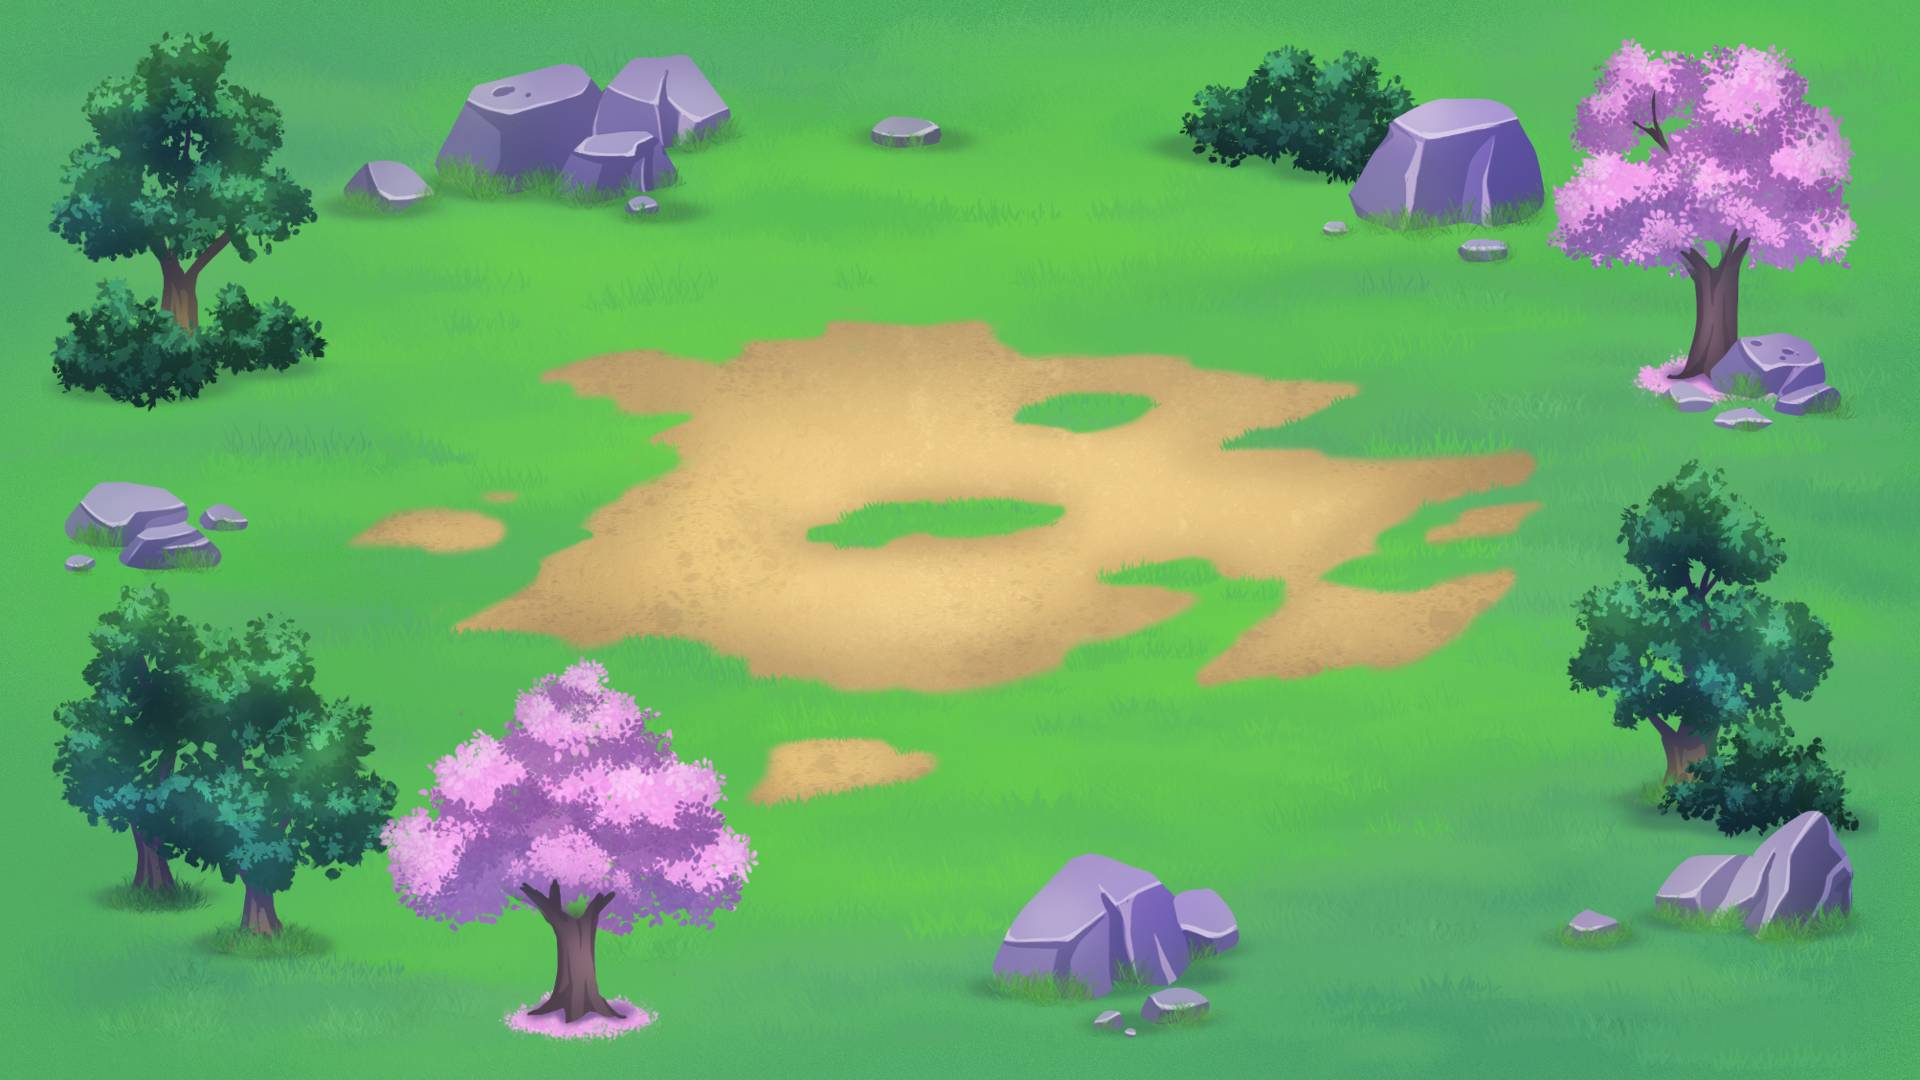
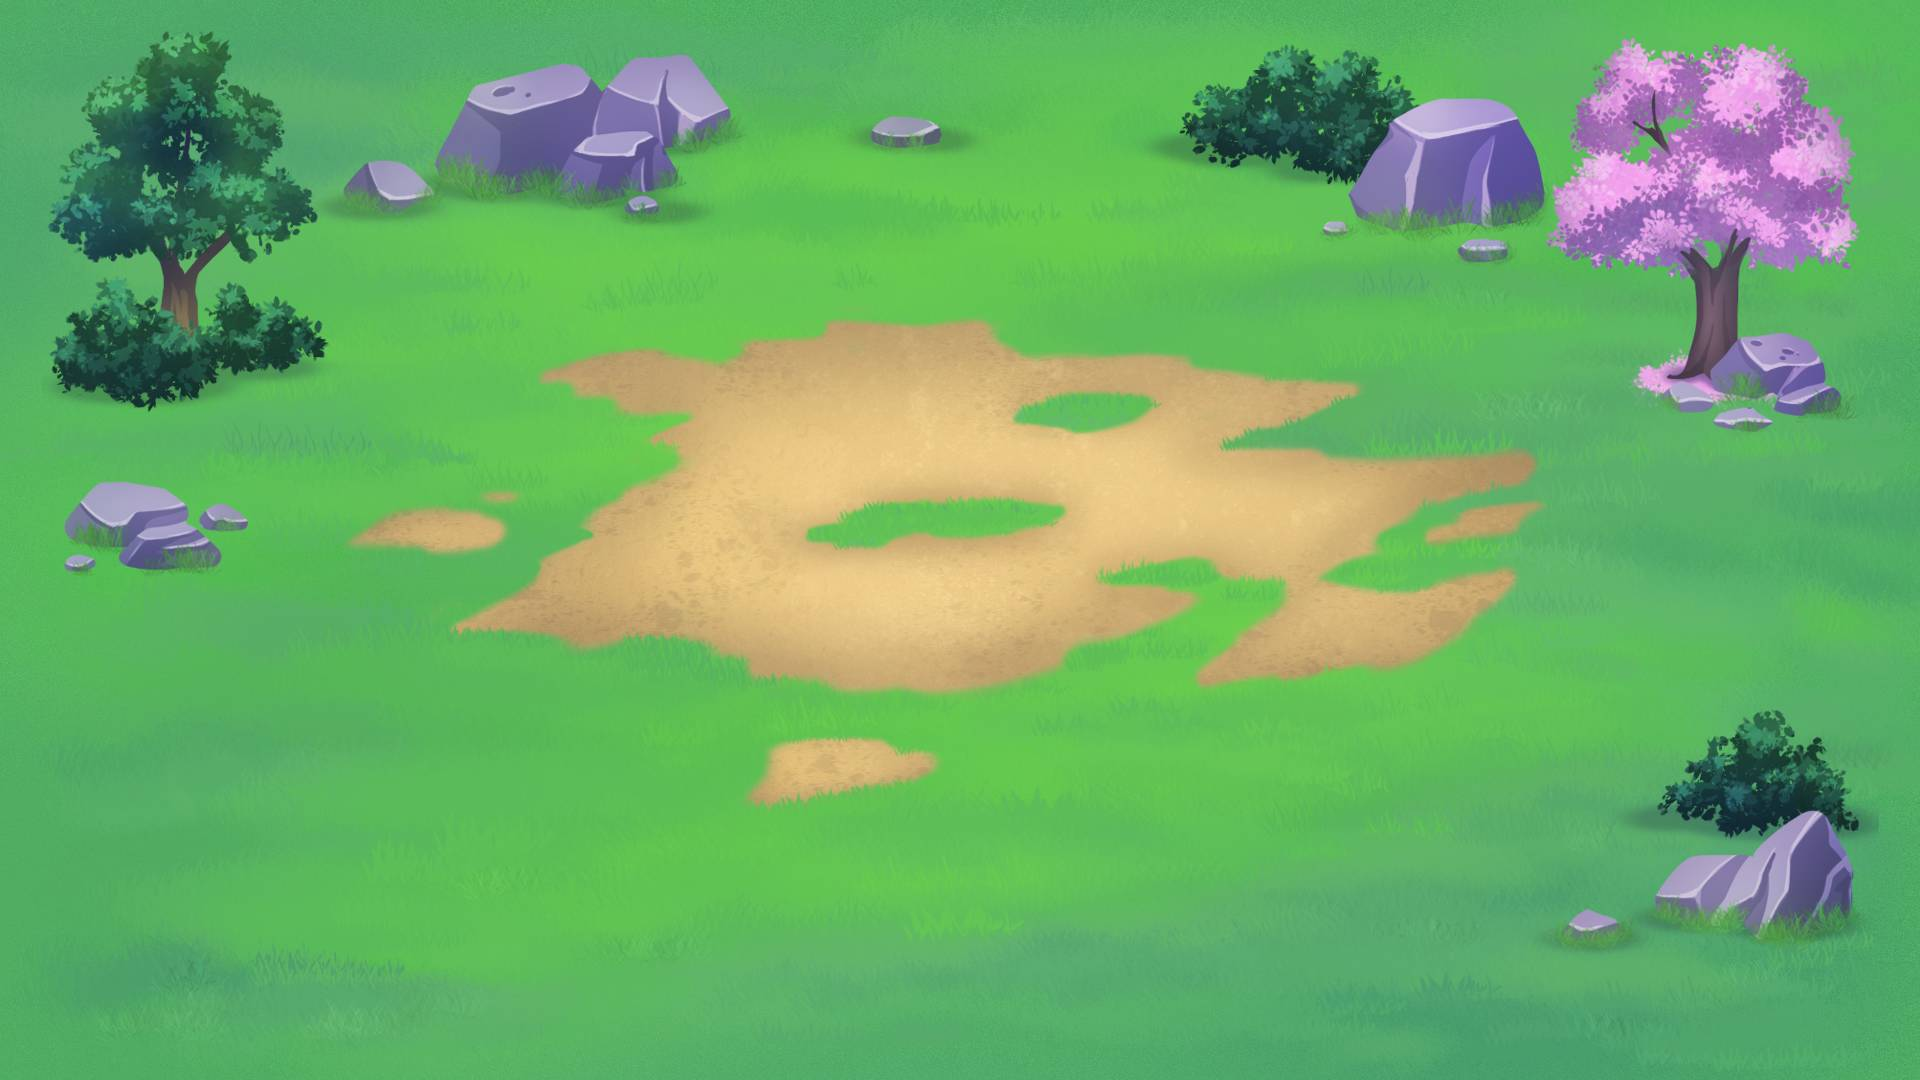
insert trees in land page

Changed region(s): [[0.0312, 0.55, 0.4062, 0.9778], [0.8125, 0.4278, 0.9688, 0.7639], [0.5, 0.7944, 0.6562, 0.9778]]

diff --git a/src/pages/Main/Main.tsx b/src/pages/Main/Main.tsx
@@ -56,7 +56,7 @@ const Main = ({ showAccount, setShowAccount }: MainProps) => {
   })
 
   useEffect(() => {
-    if(global.wall===0){
+    if (global.wall === 0) {
       history.back();
     }
     const handleWindowResize = () => {
@@ -92,7 +92,7 @@ const Main = ({ showAccount, setShowAccount }: MainProps) => {
     { counting: 0, timer: 0, },
     { counting: 0, timer: 0, },
   ])
-  
+
   const [birds, setBirds] = useState([
     { item: 0, timer: 0 },
     { item: 0, timer: 0 },
@@ -135,20 +135,20 @@ const Main = ({ showAccount, setShowAccount }: MainProps) => {
   }, [selectedIndex])
   const coolDownStatus = (cooldown: any) => {
     dispatch(
-      checkCooldown(address, `diamond${selectedIndex + 1}`, (res: any) => {       
+      checkCooldown(address, `diamond${selectedIndex + 1}`, (res: any) => {
         let cooldownSec = res.data
         const _items = [...items]
         _items[selectedIndex].timer = res.data
         _items[selectedIndex].counting = 1
         setItems(_items)
-        if( cooldownSec === 999999){
+        if (cooldownSec === 999999) {
           _items[selectedIndex].timer = 0
-        } 
-        else if(cooldownSec<=0){
+        }
+        else if (cooldownSec <= 0) {
           _items[selectedIndex].timer = 0
           setBtnTitle("CLAIM")
         }
-        else{
+        else {
           _items[selectedIndex].timer = cooldownSec
         }
       }),
@@ -168,7 +168,7 @@ const Main = ({ showAccount, setShowAccount }: MainProps) => {
       }),
     )
   }
-  
+
   const onRockClaim = () => {
     if (items[selectedIndex].counting !== 0 && items[selectedIndex].timer === 0) {
       setOpenRock(false)
@@ -183,7 +183,7 @@ const Main = ({ showAccount, setShowAccount }: MainProps) => {
         const _items = [...items]
         _items[index].counting = 0
         _items[index].timer = 0
-        if(typeof res.data.resource === 'number') setResource(res.data.resource)
+        if (typeof res.data.resource === 'number') setResource(res.data.resource)
         setItems(_items)
         setBtnTitle("START")
       }),
@@ -205,12 +205,12 @@ const Main = ({ showAccount, setShowAccount }: MainProps) => {
   }
 
   const onExchange = (swapAmount: number) => {
-    dispatch(swapResources(address, swapAmount, (res: any) => {}))
+    dispatch(swapResources(address, swapAmount, (res: any) => { }))
     setOpenSwap(false)
   }
 
   const onExchangeEgg = (swapAmount: number) => {
-    dispatch(swapEggs(address, swapAmount, (res: any) => {}))
+    dispatch(swapEggs(address, swapAmount, (res: any) => { }))
     setOpenSwap(false)
   }
 
@@ -218,7 +218,7 @@ const Main = ({ showAccount, setShowAccount }: MainProps) => {
     dispatch(
       upgradeWall(address, (res: any) => {
         setWallLevelState(res.wall)
-        global.wall=res.wall
+        global.wall = res.wall
         setSiren(res.Siren)
       }),
     )
@@ -268,7 +268,7 @@ const Main = ({ showAccount, setShowAccount }: MainProps) => {
       // md: 800,
       md: 665,
     },
-    
+
     border: 'none',
     outline: 'none',
     // maxHeight: '500px',
@@ -614,7 +614,7 @@ const Main = ({ showAccount, setShowAccount }: MainProps) => {
         >
           <div
             className="wall-wallet"
-            // style={{ backgroundImage:"url('/images/border"+(wallLevelState)+".png')" }}
+          // style={{ backgroundImage:"url('/images/border"+(wallLevelState)+".png')" }}
           >
             <img
               src={'assets/images/border' + wallLevelState + '.png'}
@@ -649,7 +649,7 @@ const Main = ({ showAccount, setShowAccount }: MainProps) => {
                 }}
                 onClick={(e) => setOpenSwap(true)}
               >
-                <img alt="" src="/images/storage.png" style={{transform: 'translate(-50%, -50%)'}} className={styles.item}/>
+                <img alt="" src="/images/storage.png" style={{ transform: 'translate(-50%, -50%)' }} className={styles.item} />
               </Box>
               <Box
                 sx={{
@@ -660,7 +660,7 @@ const Main = ({ showAccount, setShowAccount }: MainProps) => {
                 }}
                 onClick={(e) => setOpenDeposit(true)}
               >
-                <img alt="" src="/images/home.png" style={{transform: 'translate(-50%, -50%)', maxWidth: '250px'}} className={styles.item}/>
+                <img alt="" src="/images/home.png" style={{ transform: 'translate(-50%, -50%)', maxWidth: '250px' }} className={styles.item} />
               </Box>
               <Box
                 sx={{
@@ -679,32 +679,32 @@ const Main = ({ showAccount, setShowAccount }: MainProps) => {
                 <img
                   alt=""
                   className={styles.item}
-                  style={{transform: 'translate(0, -100%)'}}
+                  style={{ transform: 'translate(-5%, -115%)' }}
                   width={'80%'}
                   src={`/images/bird_place.png`}
                 />
               </Box>
               <Box
                 sx={{
-                  zIndex: 20,                  
+                  zIndex: 20,
                   transform: 'translate(100%, -180px)',
                   height: 'fit-content',
                   cursor: 'pointer',
                 }}
                 onClick={(e) => setOpenMining(true)}
               >
-                <img alt="" src="/images/mining.png"  style={{transform: 'translate(-50%, -50%)'}} className={styles.item}/>
+                <img alt="" src="/images/mining.png" style={{ transform: 'translate(-50%, -50%)' }} className={styles.item} />
               </Box>
             </Box>
             <Box
               sx={{
-                position:'absolute',
+                position: 'absolute',
                 display: 'flex',
                 width: '30%',
-                margin:'auto',
-                top:'25%',
-                left:'50%',
-                transform:"translateX(-50%)"
+                margin: 'auto',
+                top: '25%',
+                left: '50%',
+                transform: "translateX(-50%)"
               }}
             >
               {items.map((item, index) => (
@@ -727,7 +727,7 @@ const Main = ({ showAccount, setShowAccount }: MainProps) => {
                   <Box
                     sx={{
                       zIndex: 10,
-                      transform:index===1?'translateY(-30%) ':index===2?'translateY(30%) ':''
+                      transform: index === 1 ? 'translateY(-30%) ' : index === 2 ? 'translateY(30%) ' : ''
                     }}
                   >
                     <img
@@ -744,6 +744,59 @@ const Main = ({ showAccount, setShowAccount }: MainProps) => {
 
             {/* </div> */}
           </div>
+        </Box>
+
+        <Box
+          sx={{
+            zIndex: 20,
+            height: 'fit-content',
+            width: 'fit-content',
+          }}
+        >
+          <img
+            alt=""
+            style={{position: 'absolute', left: '2%', top: '55%'}}
+            src={`/images/greentree1.png`}
+          />
+        </Box>
+        <Box
+          sx={{
+            zIndex: 20,
+            height: 'fit-content',
+            width: 'fit-content',
+          }}
+        >
+          <img
+            alt=""
+            style={{position: 'absolute', left: '15%', top: '65%', width: '280px', height: '300px' }}
+            src={`/images/pinktree.png`}
+          />
+        </Box>
+        <Box
+          sx={{
+            zIndex: 20,
+            height: 'fit-content',
+            width: 'fit-content',
+          }}
+        >
+          <img
+            alt=""
+            style={{position: 'absolute', right: '5%', top: '55%',}}
+            src={`/images/greentree2.png`}
+          />
+        </Box>
+        <Box
+          sx={{
+            zIndex: 20,
+            height: 'fit-content',
+            width: 'fit-content',
+          }}
+        >
+          <img
+            alt=""
+            style={{position: 'absolute', left: '50%', bottom: '-5%',}}
+            src={`/images/rock.png`}
+          />
         </Box>
       </Box>
 

diff --git a/src/scenes/battle.scene.ts b/src/scenes/battle.scene.ts
@@ -737,7 +737,7 @@ export default class Battle extends Phaser.Scene {
     
     let critical = false
     const r = Math.random()
-    if (global.critical > r * 100) {
+    if (global.critical > r * 100 && this.attackType === 1) {
       damage *= 1.5
       damage = Math.floor(damage)
       critical = true

diff --git a/src/components/Header/RockModal.tsx b/src/components/Header/RockModal.tsx
@@ -35,7 +35,7 @@ const RockModal = ({
     top: '50%',
     left: '50%',
     transform: 'translate(-50%, -50%)',
-    width: '450px',
+    width: '500px',
     height: '580px',
     background: "url(/assets/images/set.png)",
     backgroundSize: '100% 100%',

diff --git a/src/index.css b/src/index.css
@@ -42,9 +42,9 @@ code {
 .btn-group {
   display: grid;
   position: absolute;
-  left: 185px;
-  top: 190px;
-  grid-gap: 35px;
+  left: 190px;
+  top: 180px;
+  grid-gap: 40px;
 }
 
 .btn-ligroup {
